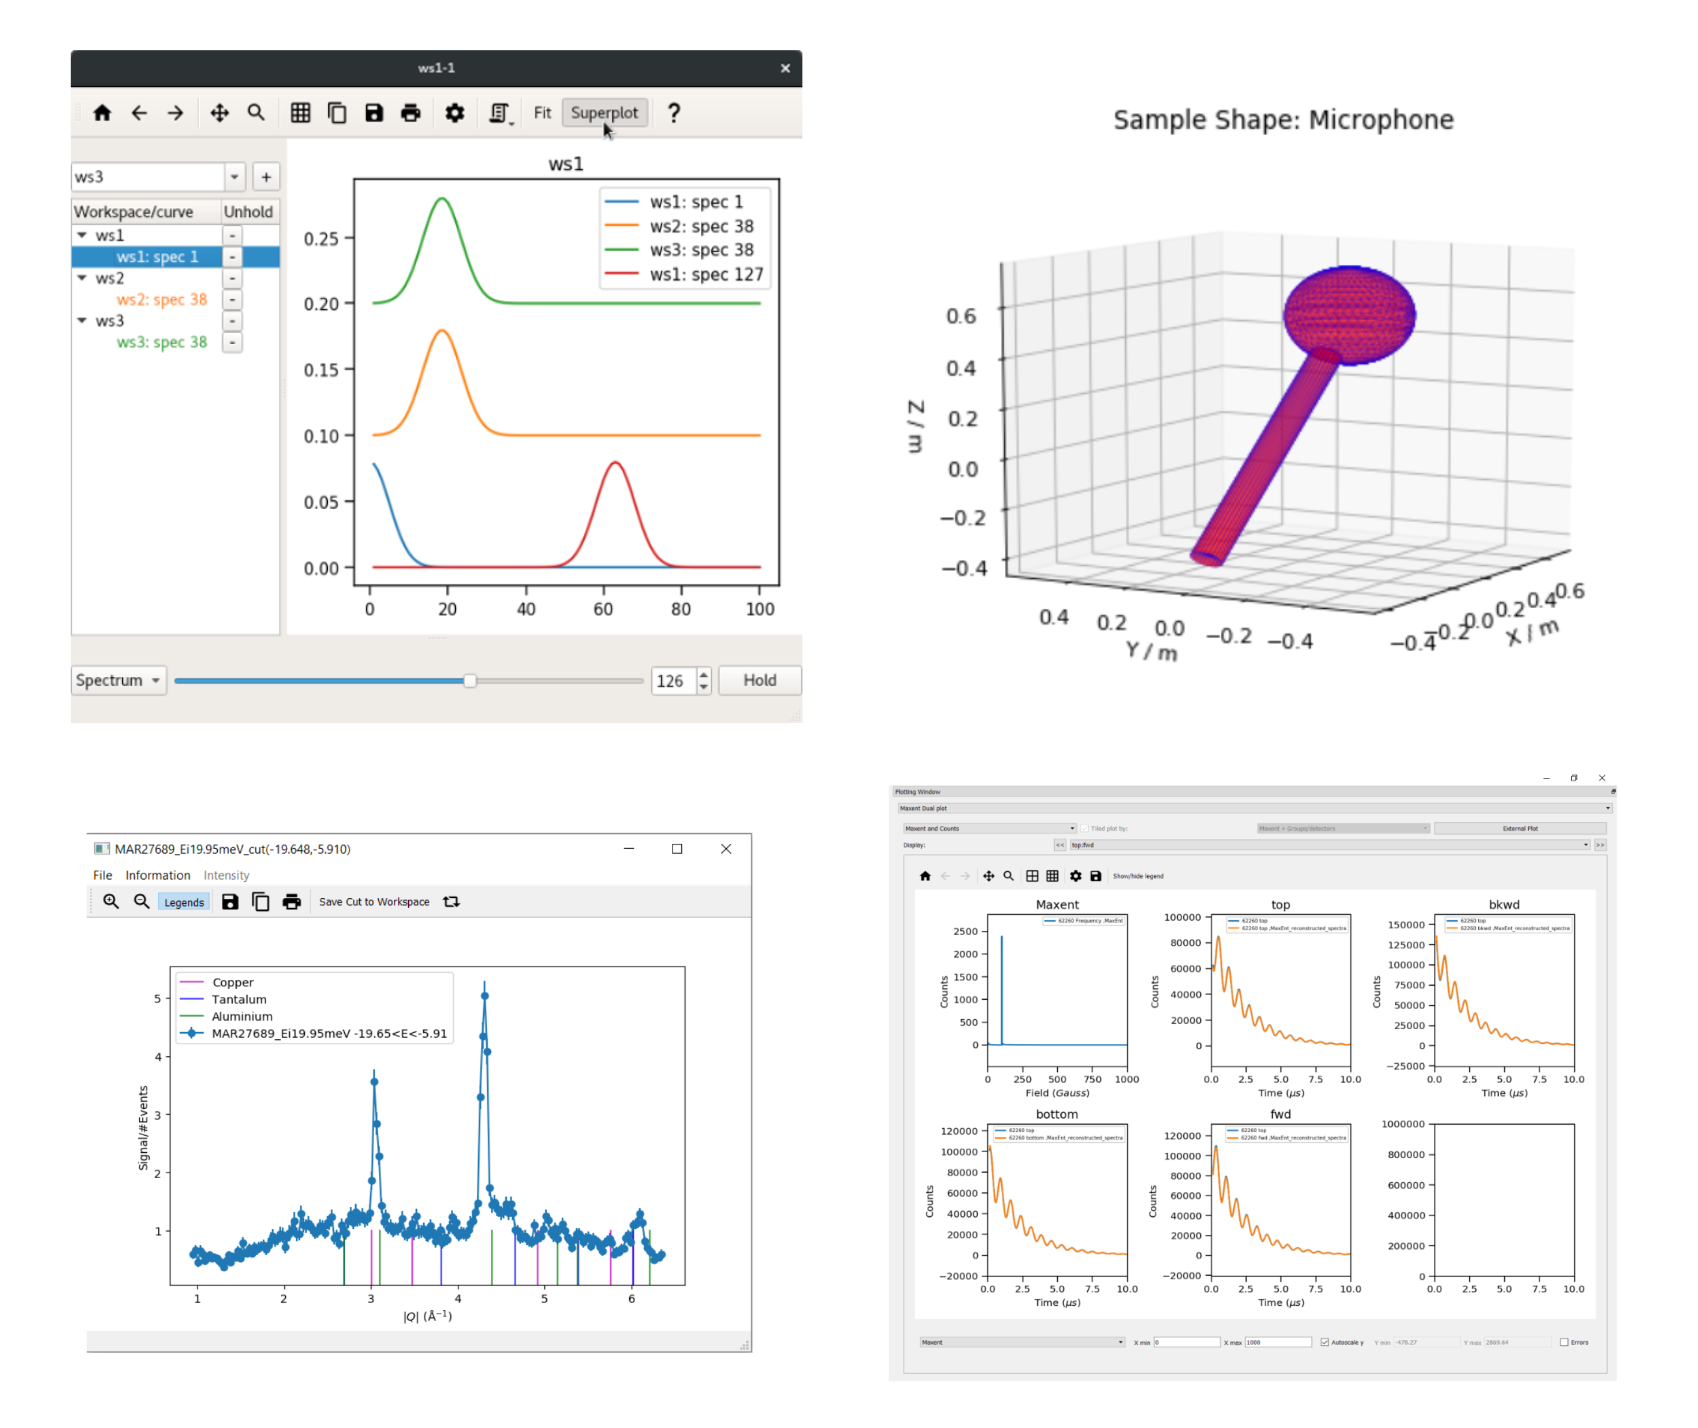
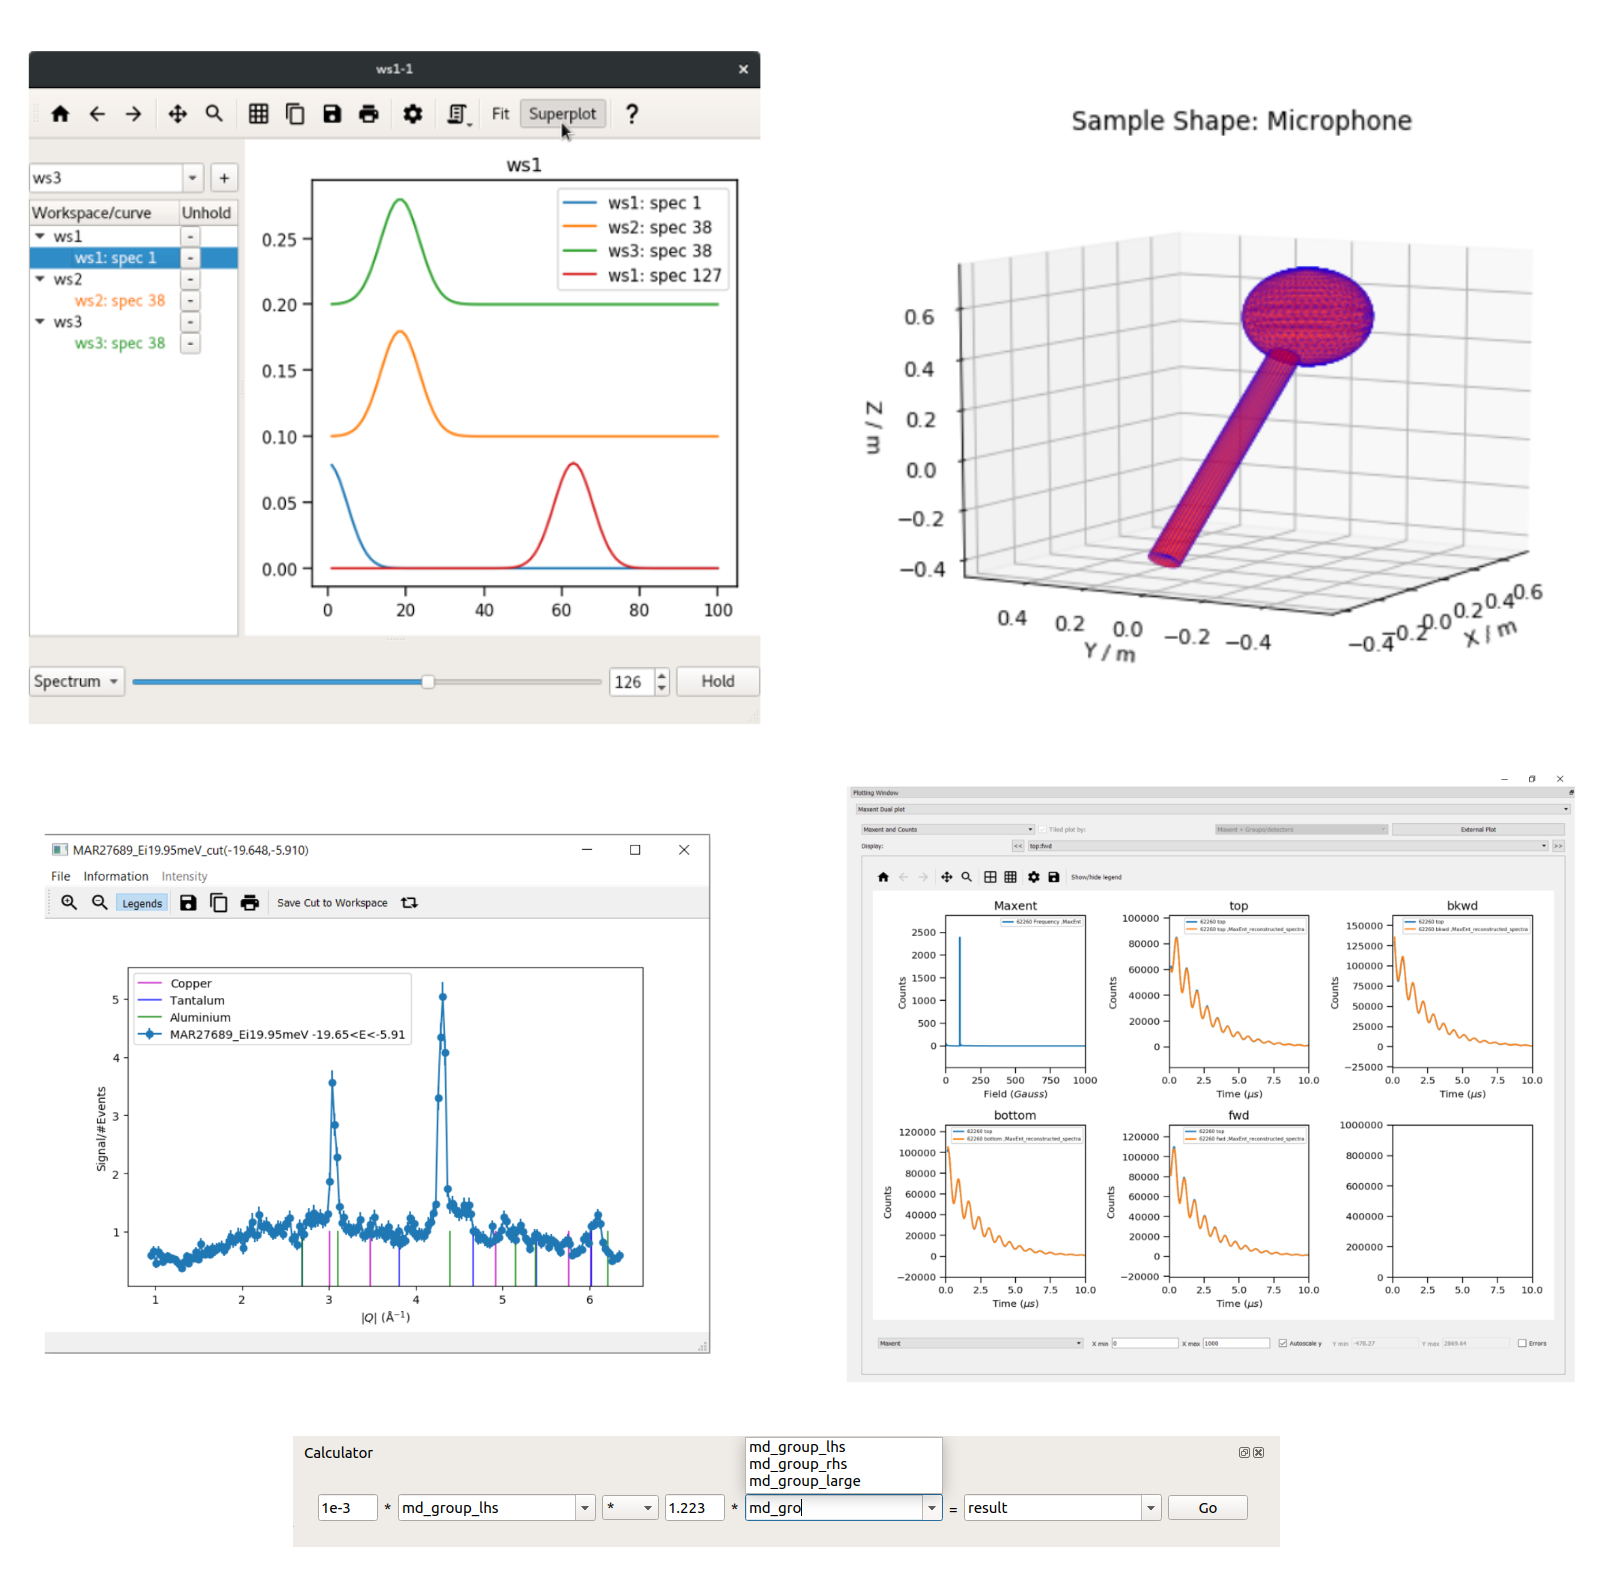
Minor rewording and image replaced
Under construction notice removed, Superplot description reworded and Workspace Calculator added to image.

diff --git a/docs/source/release/v6.2.0/index.rst b/docs/source/release/v6.2.0/index.rst
@@ -12,14 +12,12 @@ Mantid 6.2.0 Release Notes
 .. contents:: Table of Contents
    :local:
 
-.. warning:: This release is still under construction. The changes can be found in the nightly builds on the `download page`_.
-
 We are proud to announce version 6.2.0 of Mantid.
 
 This release sees many new algorithms added or improved to extend the functionality of Mantid for users. In addition to this there are some significant new features
 including:-
 
-- Superplot, a new detector widget for the plot window that facilitates over-plotting and the manipulation of overplotted data.
+- Superplot, a new widget that facilitates over-plotting and data comparison for a large number of workspaces.
 - The ablity to plot CSGObjects as Sample shapes and merge shapes for greater complexity.
 - In MSlice you can now enable powder (Bragg) peaks on cut plots.
 - Maxent Dual Plotting for Frequency Domain Analysis allowing raw and reconstructed data to be plotted together along with the frequency domain data.
